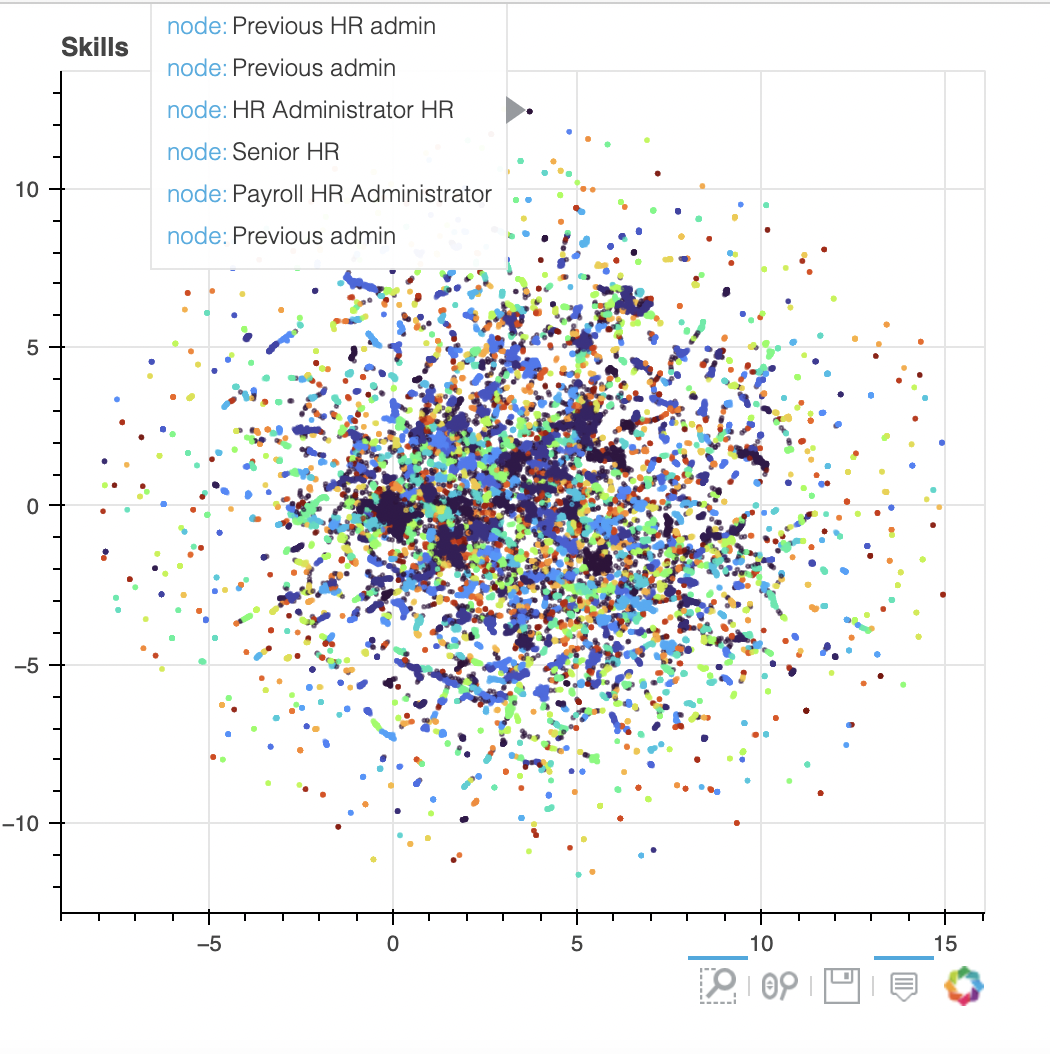
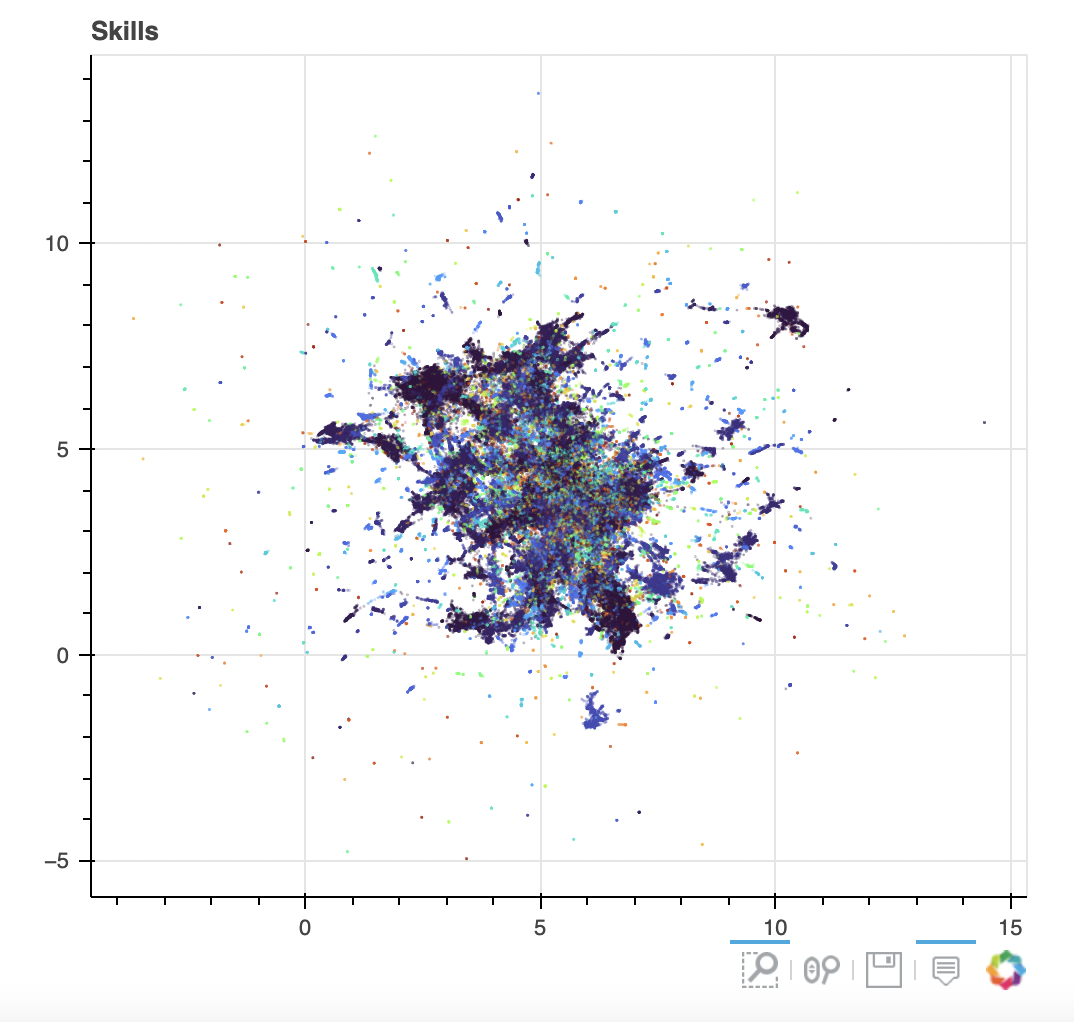
Update figures in experiment document

diff --git a/skills_taxonomy_v2/analysis/skills_extraction/Skills Extraction Experiments.md b/skills_taxonomy_v2/analysis/skills_extraction/Skills Extraction Experiments.md
@@ -76,7 +76,13 @@ In `Transformers sentence embeddings approach - masked.ipynb` I experiment with 
 
 The clustering looked a lot more reasonable. There is probably a lot more scope at this point to play with the data reduction and clustering parameters, but at this point in the experimentation I opted to not spend too long on this.
 
+- 4573 unique clusters
+- Siloutte score: 0.13
+- Proportion not clustered = 0.036
+
 <img src="figures/masked_sentence_embeddings_experiment.png" alt="drawing" width="600"/>
+
+<img src="figures/masked_sentence_embeddings_experiment_notclust.png" alt="drawing" width="600"/>
 
 <!-- #endregion -->
 
